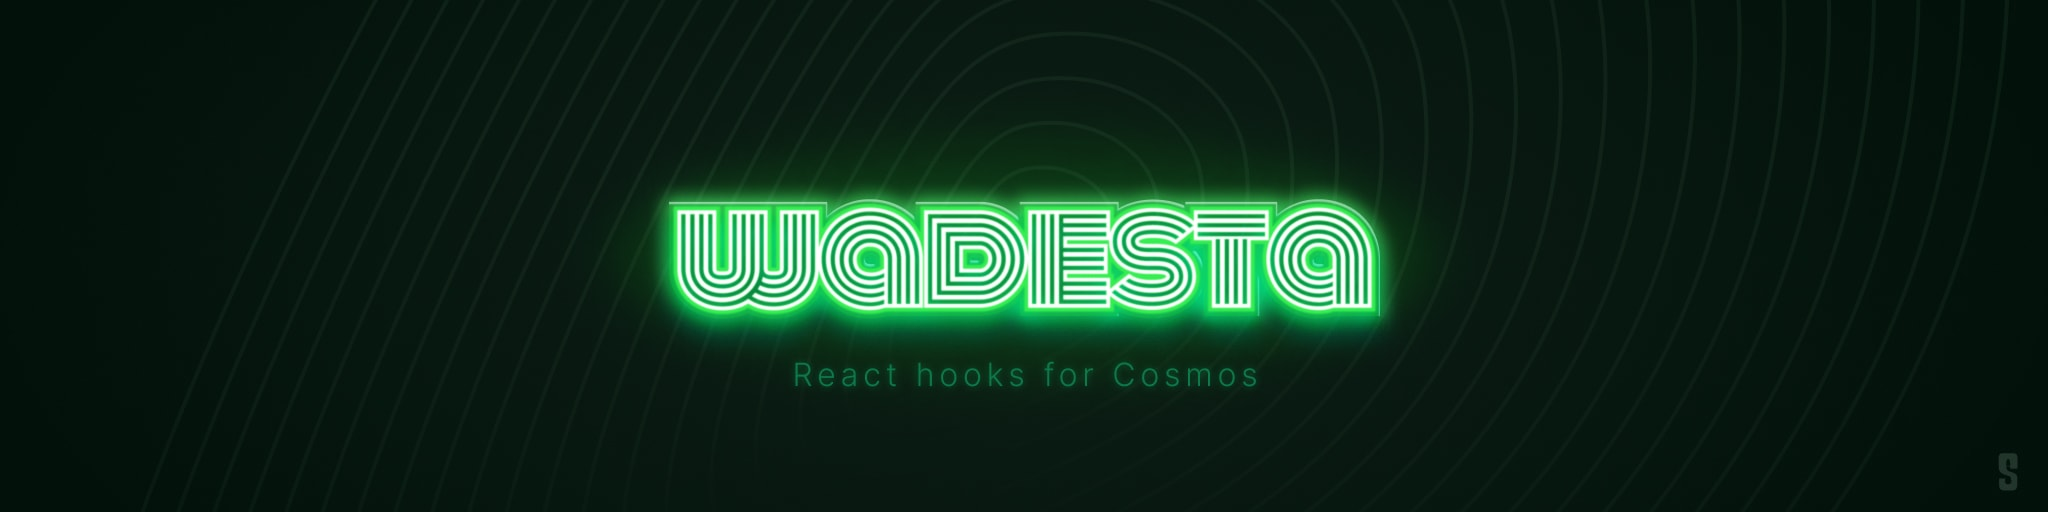
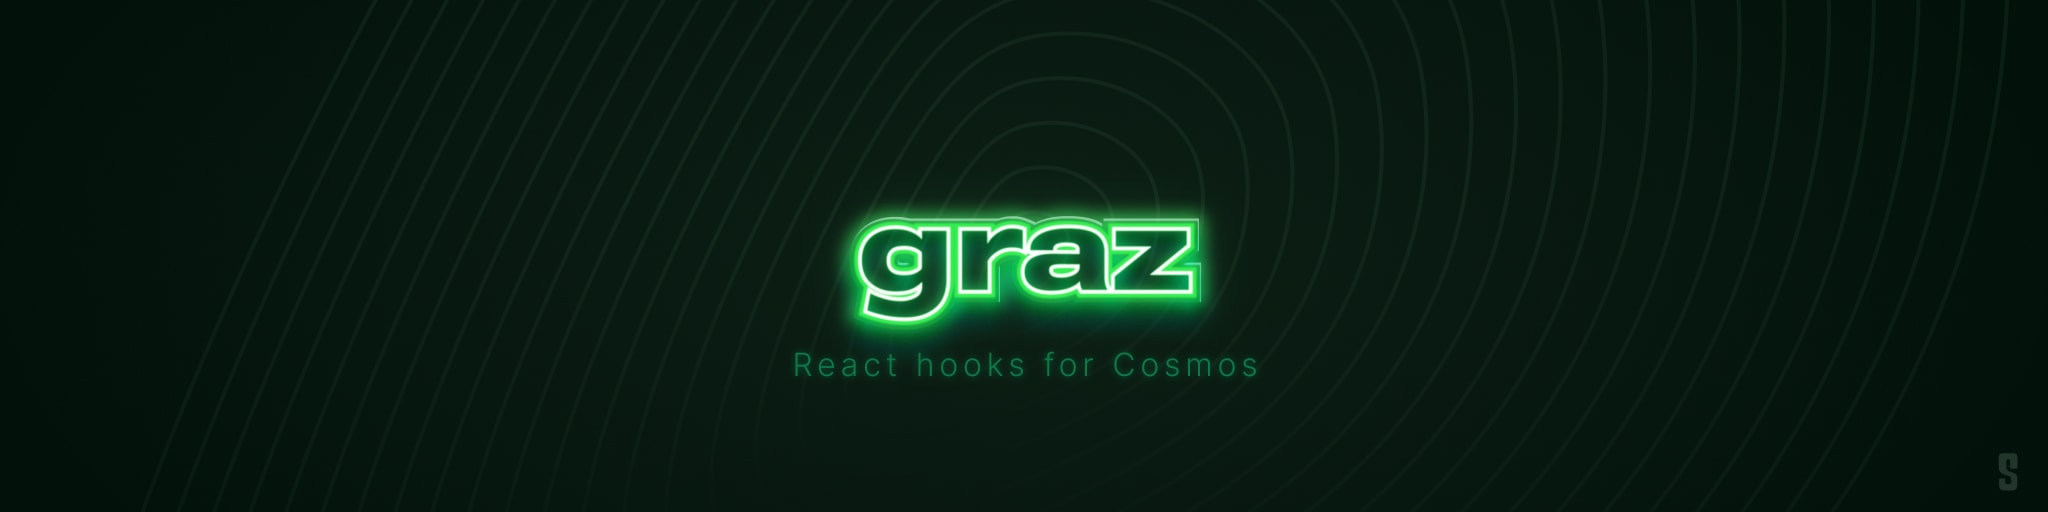
refactor: wadesta -> graz

Changed region(s): [[0.3125, 0.3438, 0.6875, 0.75]]

diff --git a/packages/graz/src/actions/account.ts b/packages/graz/src/actions/account.ts
@@ -1,19 +1,19 @@
 import { SigningCosmWasmClient } from "@cosmjs/cosmwasm-stargate";
 
-import type { WadestaChain } from "../chains";
+import type { GrazChain } from "../chains";
 import { getKeplr } from "../keplr";
-import { defaultValues, useWadestaStore } from "../store";
+import { defaultValues, useGrazStore } from "../store";
 
 export interface ConnectOptions {
   autoConnect?: boolean;
 }
 
-export async function connect(chain: WadestaChain, opts: ConnectOptions = {}) {
+export async function connect(chain: GrazChain, opts: ConnectOptions = {}) {
   const { autoConnect = true } = opts;
   try {
     const keplr = getKeplr();
 
-    useWadestaStore.setState((x) => ({ status: x._reconnect ? "reconnecting" : "connecting" }));
+    useGrazStore.setState((x) => ({ status: x._reconnect ? "reconnecting" : "connecting" }));
     await keplr.enable(chain.chainId);
 
     const signer = keplr.getOfflineSigner(chain.chainId);
@@ -25,7 +25,7 @@ export async function connect(chain: WadestaChain, opts: ConnectOptions = {}) {
       await SigningCosmWasmClient.connectWithSigner(chain.rpc, signer),
     ] as const);
 
-    useWadestaStore.setState({
+    useGrazStore.setState({
       account,
       activeChain: chain,
       client,
@@ -38,22 +38,22 @@ export async function connect(chain: WadestaChain, opts: ConnectOptions = {}) {
 
     return account;
   } catch (error) {
-    if (useWadestaStore.getState().account === null) {
-      useWadestaStore.setState({ status: "disconnected" });
+    if (useGrazStore.getState().account === null) {
+      useGrazStore.setState({ status: "disconnected" });
     }
     throw error;
   }
 }
 
 export async function disconnect() {
-  useWadestaStore.setState({
+  useGrazStore.setState({
     ...defaultValues,
   });
   return Promise.resolve();
 }
 
 export async function getBalances(bech32Address: string) {
-  const { activeChain, client } = useWadestaStore.getState();
+  const { activeChain, client } = useGrazStore.getState();
 
   if (!activeChain || !client) {
     throw new Error("No connected account detected");
@@ -69,6 +69,6 @@ export async function getBalances(bech32Address: string) {
 }
 
 export function reconnect() {
-  const { activeChain } = useWadestaStore.getState();
+  const { activeChain } = useGrazStore.getState();
   if (activeChain) void connect(activeChain);
 }

diff --git a/packages/graz/src/hooks/account.ts b/packages/graz/src/hooks/account.ts
@@ -3,13 +3,13 @@ import { useMutation, useQuery } from "react-query";
 import shallow from "zustand/shallow";
 
 import { connect, disconnect, getBalances, reconnect } from "../actions/account";
-import type { WadestaChain } from "../chains";
-import { useWadestaStore } from "../store";
+import type { GrazChain } from "../chains";
+import { useGrazStore } from "../store";
 import type { MutationEventArgs } from "../types/hooks";
 
 export function useAccount() {
-  const account = useWadestaStore((x) => x.account);
-  const status = useWadestaStore((x) => x.status);
+  const account = useGrazStore((x) => x.account);
+  const status = useGrazStore((x) => x.status);
 
   return {
     data: account,
@@ -44,10 +44,10 @@ export function useBalances(bech32Address?: string) {
 }
 
 export function useCosmWasmClient() {
-  return useWadestaStore((x) => x.client);
+  return useGrazStore((x) => x.client);
 }
 
-export type UseConnectChainArgs = MutationEventArgs<WadestaChain, Key>;
+export type UseConnectChainArgs = MutationEventArgs<GrazChain, Key>;
 
 export function useConnect({ onError, onLoading, onSuccess }: UseConnectChainArgs = {}) {
   const queryKey = ["WADESTA_USE_CONNECT", onError, onLoading, onSuccess];
@@ -86,7 +86,7 @@ export function useDisconnect({ onError, onLoading, onSuccess }: MutationEventAr
 }
 
 export function useSigners() {
-  return useWadestaStore(
+  return useGrazStore(
     (x) => ({
       signer: x.signer,
       signerAmino: x.signerAmino,

diff --git a/packages/graz/src/store/index.ts b/packages/graz/src/store/index.ts
@@ -5,11 +5,11 @@ import type { State } from "zustand";
 import create from "zustand";
 import { persist, subscribeWithSelector } from "zustand/middleware";
 
-import type { WadestaChain } from "../chains";
+import type { GrazChain } from "../chains";
 
-export interface WadestaStore extends State {
+export interface GrazStore extends State {
   account: Key | null;
-  activeChain: WadestaChain | null;
+  activeChain: GrazChain | null;
   balances: Coin[] | null;
   client: SigningCosmWasmClient | null;
   signer: (OfflineSigner & OfflineDirectSigner) | null;
@@ -20,7 +20,7 @@ export interface WadestaStore extends State {
   _reconnect?: boolean;
 }
 
-export const defaultValues: WadestaStore = {
+export const defaultValues: GrazStore = {
   account: null,
   activeChain: null,
   balances: null,
@@ -31,10 +31,10 @@ export const defaultValues: WadestaStore = {
   status: "disconnected",
 };
 
-export const useWadestaStore = create(
+export const useGrazStore = create(
   subscribeWithSelector(
-    persist<WadestaStore, [["zustand/subscribeWithSelector", never]]>(() => ({ ...defaultValues }), {
-      name: "wadesta",
+    persist<GrazStore, [["zustand/subscribeWithSelector", never]]>(() => ({ ...defaultValues }), {
+      name: "graz",
       partialize: (x) => ({
         activeChain: x.activeChain,
         _reconnect: x._reconnect,

diff --git a/packages/graz/src/provider/index.tsx b/packages/graz/src/provider/index.tsx
@@ -1,7 +1,7 @@
 import type { ReactNode } from "react";
 import { QueryClient, QueryClientProvider } from "react-query";
 
-import { WadestaSubscription } from "./subscription";
+import { GrazSubscription } from "./subscription";
 
 const queryClient = new QueryClient({
   defaultOptions: {
@@ -11,10 +11,10 @@ const queryClient = new QueryClient({
   },
 });
 
-export function WadestaProvider({ children }: { children: ReactNode }) {
+export function GrazProvider({ children }: { children: ReactNode }) {
   return (
-    <QueryClientProvider key="wadesta-query-client" client={queryClient}>
-      <WadestaSubscription />
+    <QueryClientProvider key="graz-query-client" client={queryClient}>
+      <GrazSubscription />
       {children}
     </QueryClientProvider>
   );

diff --git a/example/pages/_app.tsx b/example/pages/_app.tsx
@@ -1,13 +1,13 @@
 import { ChakraProvider, extendTheme } from "@chakra-ui/react";
+import { GrazProvider } from "graz/src";
 import type { AppProps } from "next/app";
-import { WadestaProvider } from "wadesta/src";
 
 export default function CustomApp({ Component, pageProps }: AppProps) {
   return (
     <ChakraProvider resetCSS theme={extendTheme({ config: { initialColorMode: "light" } })}>
-      <WadestaProvider>
+      <GrazProvider>
         <Component {...pageProps} />
-      </WadestaProvider>
+      </GrazProvider>
     </ChakraProvider>
   );
 }

diff --git a/packages/graz/src/provider/subscription.tsx b/packages/graz/src/provider/subscription.tsx
@@ -1,12 +1,12 @@
 import { useEffect } from "react";
 
 import { reconnect } from "../actions/account";
-import { useWadestaStore } from "../store";
+import { useGrazStore } from "../store";
 
-export function WadestaSubscription() {
+export function GrazSubscription() {
   // track keplr_keystorechange and reconnect state
   useEffect(() => {
-    const { _reconnect } = useWadestaStore.getState();
+    const { _reconnect } = useGrazStore.getState();
     if (_reconnect) reconnect();
 
     window.addEventListener("focus", reconnect);

diff --git a/packages/graz/src/hooks/chains.ts b/packages/graz/src/hooks/chains.ts
@@ -2,11 +2,11 @@ import type { ChainInfo } from "@keplr-wallet/types";
 import { useMutation } from "react-query";
 
 import { suggestChain } from "../actions/chains";
-import { useWadestaStore } from "../store";
+import { useGrazStore } from "../store";
 import type { MutationEventArgs } from "../types/hooks";
 
 export function useActiveChain() {
-  return useWadestaStore((x) => x.activeChain);
+  return useGrazStore((x) => x.activeChain);
 }
 
 export type UseSuggestChainArgs = MutationEventArgs<ChainInfo>;

diff --git a/packages/graz/src/chains/index.ts b/packages/graz/src/chains/index.ts
@@ -4,14 +4,14 @@ import { cosmoshub } from "./cosmoshub";
 import { juno } from "./juno";
 import { osmosis } from "./osmosis";
 
-export interface WadestaChain {
+export interface GrazChain {
   chainId: string;
   currencies: AppCurrency[];
   rest: string;
   rpc: string;
 }
 
-export function defineChains<T extends Record<string, WadestaChain>>(chains: T) {
+export function defineChains<T extends Record<string, GrazChain>>(chains: T) {
   return chains;
 }
 

diff --git a/docs/next.config.js b/docs/next.config.js
@@ -20,7 +20,7 @@ let nextConfig = {
   },
 };
 
-const localModules = ["wadesta", ...Object.keys(packageJson.dependencies).filter((dep) => dep.startsWith("@project/"))];
+const localModules = ["graz", ...Object.keys(packageJson.dependencies).filter((dep) => dep.startsWith("@project/"))];
 nextConfig = withTranspileModules(localModules)(nextConfig);
 
 module.exports = nextConfig;

diff --git a/example/next.config.js b/example/next.config.js
@@ -20,7 +20,7 @@ let nextConfig = {
   },
 };
 
-const localModules = ["wadesta", ...Object.keys(packageJson.dependencies).filter((dep) => dep.startsWith("@project/"))];
+const localModules = ["graz", ...Object.keys(packageJson.dependencies).filter((dep) => dep.startsWith("@project/"))];
 nextConfig = withTranspileModules(localModules)(nextConfig);
 
 module.exports = nextConfig;

diff --git a/example/pages/index.tsx b/example/pages/index.tsx
@@ -10,7 +10,7 @@ import {
   UnorderedList,
   useToast,
 } from "@chakra-ui/react";
-import { defaultChains, useAccount, useActiveChain, useBalances, useConnect, useDisconnect } from "wadesta/src";
+import { defaultChains, useAccount, useActiveChain, useBalances, useConnect, useDisconnect } from "graz/src";
 
 export default function HomePage() {
   const toast = useToast();
